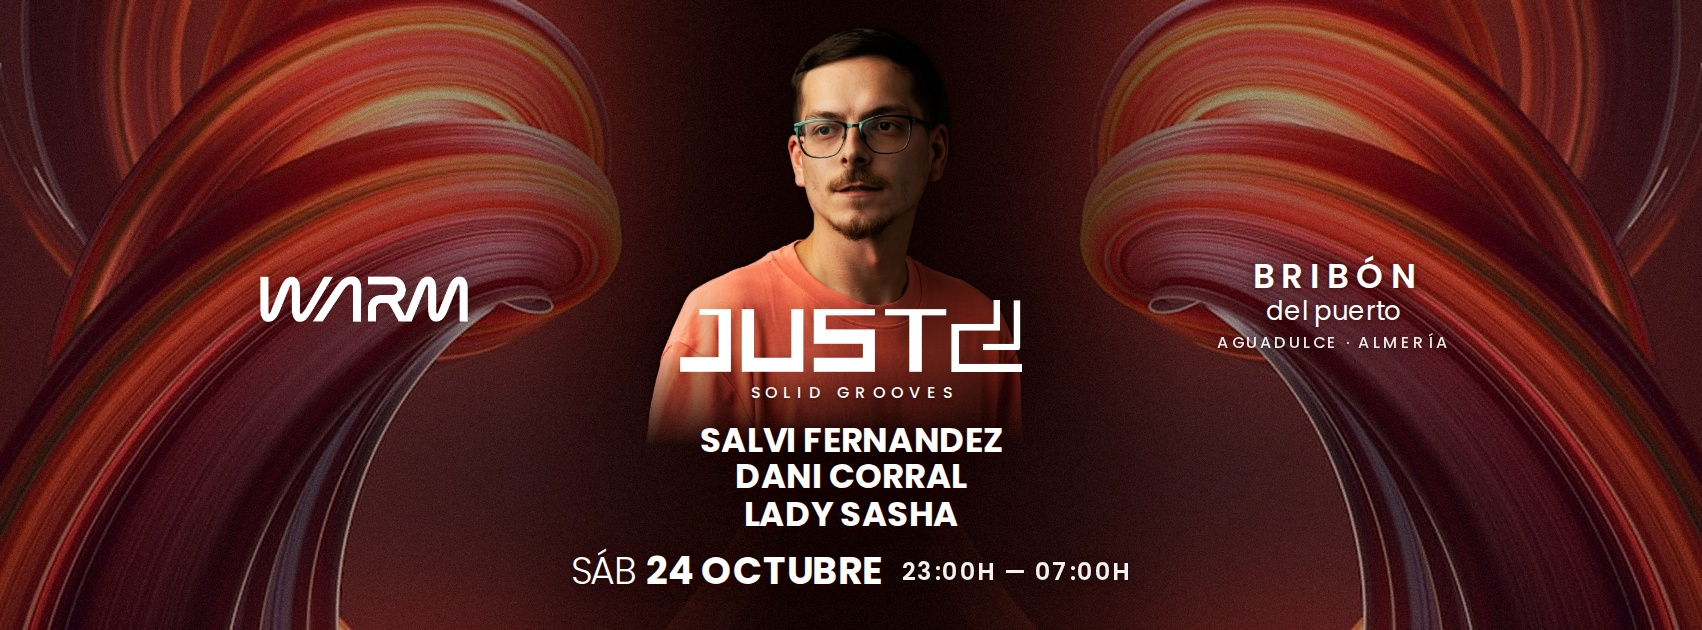
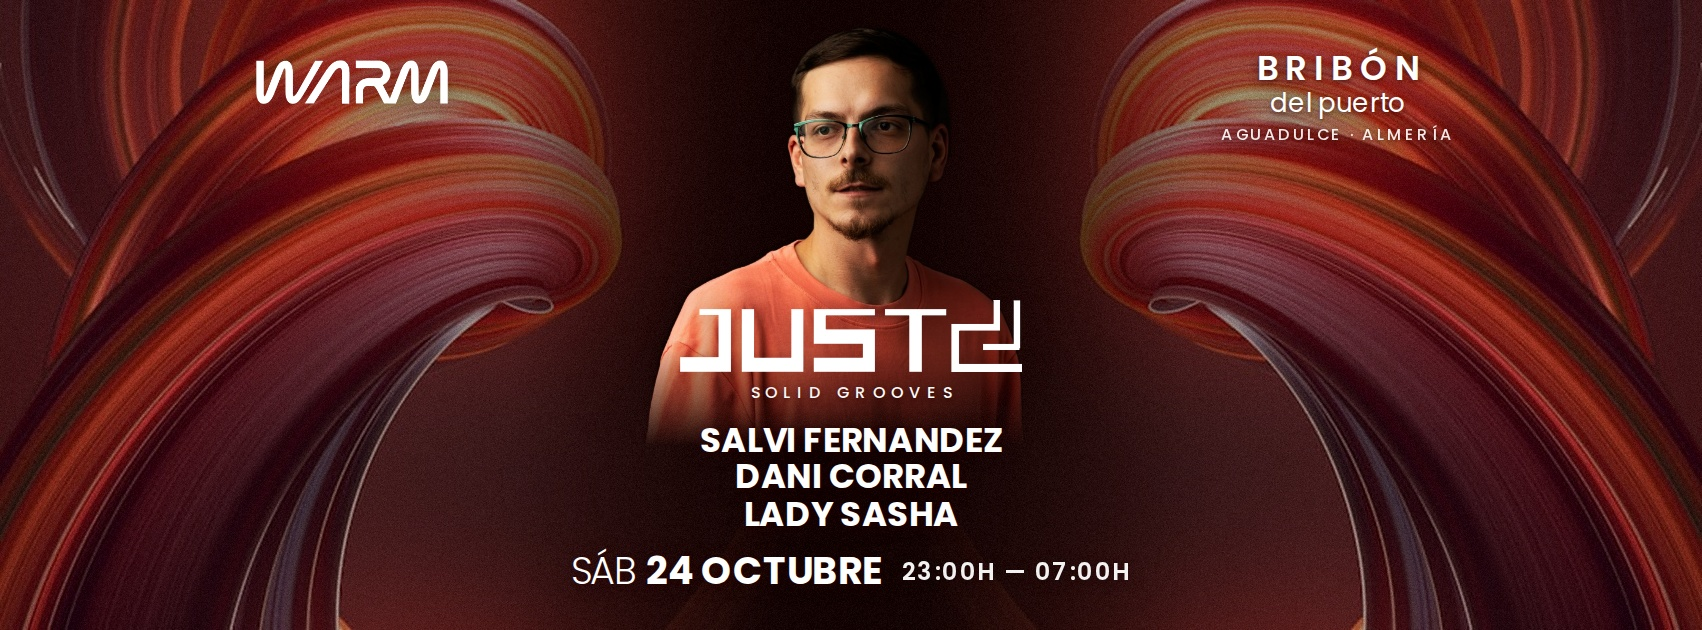
WARM 24.10 — copertă FB 851×315: WARM și Bribón sus, stânga/dreapta
Claude-Session: https://claude.ai/code/session_01PsYJ7xTqRMzxVLnVuQx1Lt

diff --git a/warm_24oct/cover_851.html b/warm_24oct/cover_851.html
@@ -7,8 +7,8 @@ body{width:851px;height:315px;overflow:hidden;background:#200606 url(bg_swirl_85
  -webkit-mask-image:linear-gradient(180deg,#000 0%,#000 37%,rgba(0,0,0,0) 45%);filter:drop-shadow(0 0 18px rgba(20,0,0,.55))}
 .sh{text-shadow:0 1px 8px rgba(40,5,0,.65),0 1px 2px rgba(40,5,0,.4)}
 img.sh{filter:drop-shadow(0 1px 7px rgba(40,5,0,.5))}
-.warm{position:absolute;top:138px;left:130px;width:104px}
-.tr{position:absolute;top:130px;right:126px;text-align:center;line-height:1}
+.warm{position:absolute;top:30px;left:128px;width:96px}
+.tr{position:absolute;top:26px;right:124px;text-align:center;line-height:1}
 .tr b{display:block;font-weight:600;font-size:17px;letter-spacing:.2em;padding-left:.2em}
 .tr i{display:block;font-style:normal;font-weight:400;font-size:13px;text-transform:none;margin-top:2px}
 .tr small{display:block;font-weight:500;font-size:8px;letter-spacing:.14em;margin-top:6px;opacity:.9}
